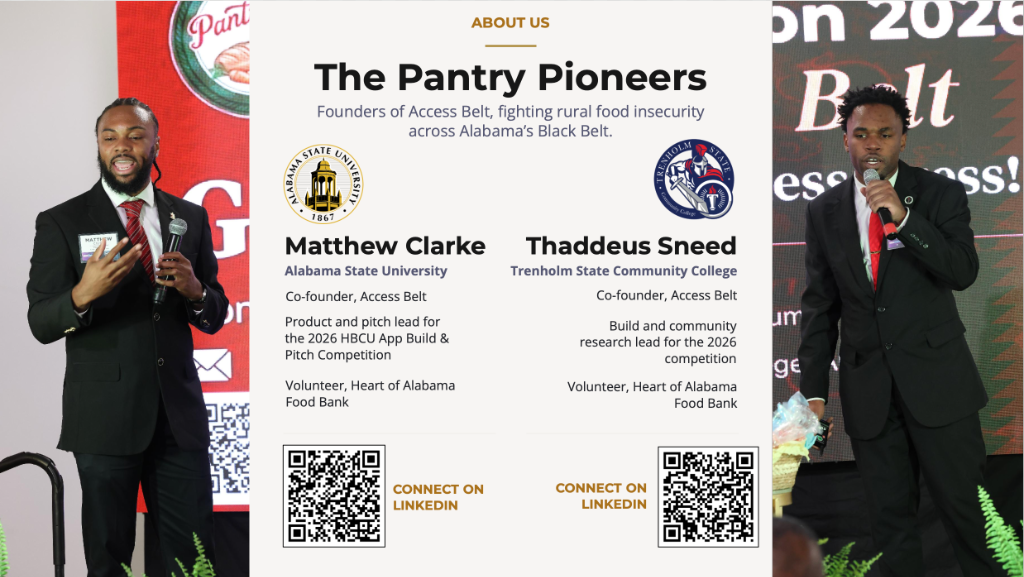
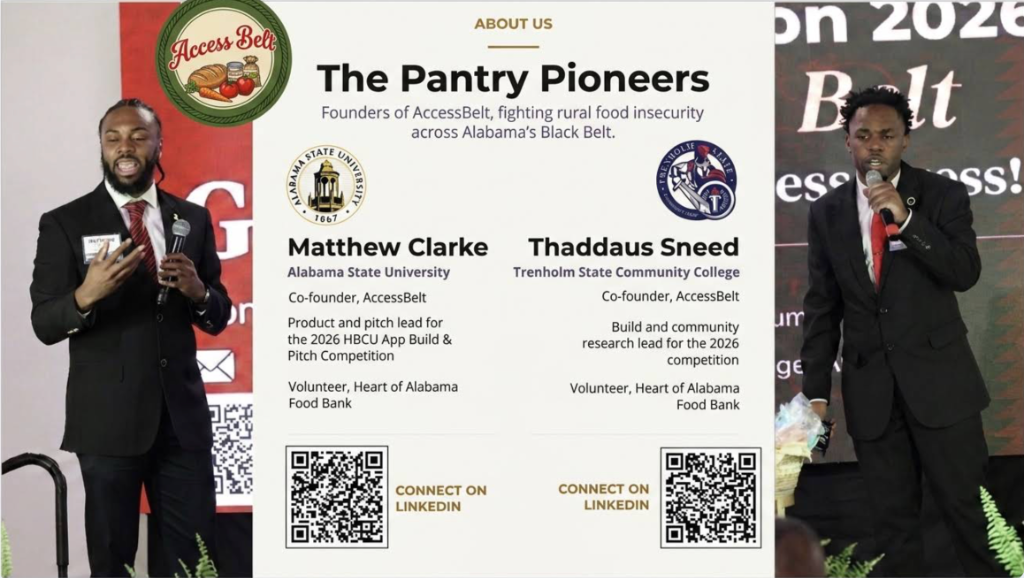
feat(hero): update founders presentation image and alt text

diff --git a/src/components/Hero.tsx b/src/components/Hero.tsx
@@ -68,7 +68,7 @@ export default function Hero() {
         <div className="relative aspect-[16/9] rounded-[32px] overflow-hidden shadow-3d border border-black/5 bg-white">
           <img
             src="/pioneers-hero.png"
-            alt="The Pantry Pioneers - Founders Matthew Clarke and Thaddeus Sneed presenting AccessBelt"
+            alt="The Pantry Pioneers - Founders Matthew Clarke and Thaddaus Sneed presenting AccessBelt"
             className="w-full h-full object-cover"
             loading="eager"
             fetchPriority="high"
